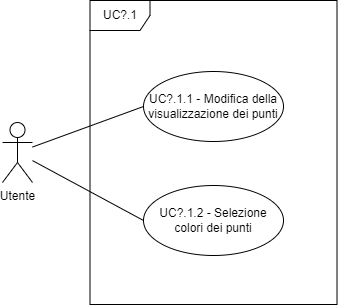
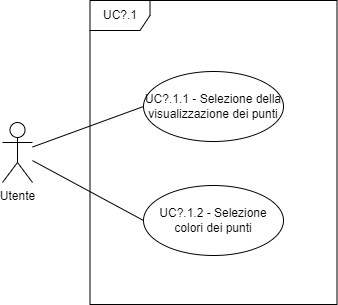
fix

Changed region(s): [[0.4438, 0.2951, 0.8284, 0.3541]]

diff --git a/src/documenti/esterni/AdR/contenuti/casi_uso.tex b/src/documenti/esterni/AdR/contenuti/casi_uso.tex
@@ -183,14 +183,14 @@
     \begin{enumerate}
       \item L'utente può decidere di:
     \begin{enumerate}
-      \item Modifica visualizzazione dei punti [UC?.1.1];
+      \item Selezione visualizzazione dei punti [UC?.1.1];
       \item Selezione colori dei punti  [UC?.1.2];
     \end{enumerate}
     \item Le modifiche scelte vengono visualizzate.
   \end{enumerate}
   \end{itemize}
 
-  \subsubsection{UC?.1.1 - Modifica visualizzazione dei punti}
+  \subsubsection{UC?.1.1 - Selezione visualizzazione dei punti}
   \begin{itemize}
     \item \textbf{Descrizione:} l'utente ha la possibilità di modificare la forma e la dimensione dei punti;
     \item \textbf{Attore primario:} utente;
